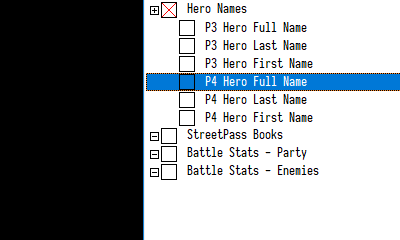
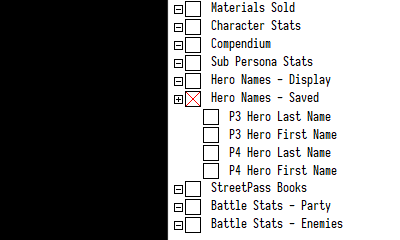
added sold materials and passive effects, fixed hero name records

Changed region(s): [[0.36, 0.0, 1.0, 1.0], [0.48, 0.9625, 0.51, 0.9917]]

diff --git a/README.md b/README.md
@@ -33,7 +33,7 @@ Most stuff should be self-explanatory; however, some notes may be required:
 
 1. __Play Time__, `t`, is measured using the following relationship: `t = 30 * 60 * (60 * h + m)`, where `h` and `m` are the number of hours and minutes played respectively.
 
-2. The __Hit Meter__ appears to the right during each battle and is used for invoking the leader skill. The maximum meter level is 5 and each level is divided to 100 ticks, so 500 ticks will max out the meter.
+2. The __Party Gauge__ appears to the right during each battle and is used for invoking Leader Skills. The maximum meter level is 5 and each level is composed of 100 ticks, so 500 ticks will max out the meter.
 
 3. The items within the __Item Inventory__ can only be edited via the table - adding and removing items would involve messing with emulated in-game pointers, which is not fun. To add an item, buy a cheap item from the workshop and edit it via the table, or create the item in the __Item Store__ and retrieve it from there.
 
@@ -43,15 +43,19 @@ Most stuff should be self-explanatory; however, some notes may be required:
 
    Examples for user input strings are the __P3 Hero__ and __P4 Hero__ names. Usually, these are limited to 6 chars, but are stored in memory as 14 bytes: `(14 - 1) // 2 == 6` (for the first name and last name each). However, these can be edited as ASCII strings (1 byte per character), thus increasing the total character limit per name to 13 chars: `(14 - 1) // 1 == 13`.
 
-   To edit a string, e.g. the __P4 Hero__ name, use the following process:
+   To edit a string, e.g. the __P4 Hero__ name, use the following process - under the __Hero Names - Saved__ record:
 
    1. Highlight a name record and press `Ctrl+B` to browse the memory at that address.
    2. Zero out the bytes from that point up to the closest `00` byte.
    3. Then, use the table to edit the name to the desired ASCII string.
    4. Do this for both the first and last name.
-   5. Do the same for the full name, with a format of `"<fname> <lname>"`.
+   5. Save and load the game, then check if the new names appear under __Hero Names - Dispaly__.
+
+   Other strings can be edited in a similar fashion.
 
    |                      |                      |                      |
    |:--------------------:|:--------------------:|:--------------------:|
    | ![n0](img/name0.png) | ![n1](img/name1.png) | ![n2](img/name2.png) |
    | ![n3](img/name3.png) | ![n4](img/name4.png) | ![n5](img/name5.png) |
+
+5. The __Passive Effect__ is the currently active item effect when roaming the labyrinth. For example, to avoid all random enemy encouters, set the passive effect to `4796` (Repulse Bell) and freeze __Passive Effect Steps__ to 50 or some other non-zero value.
